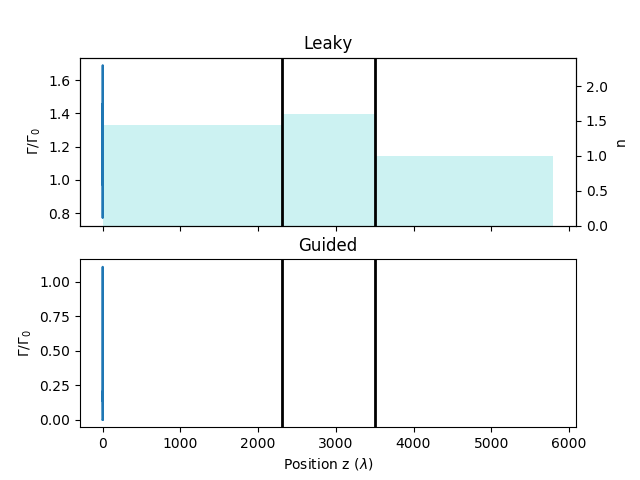
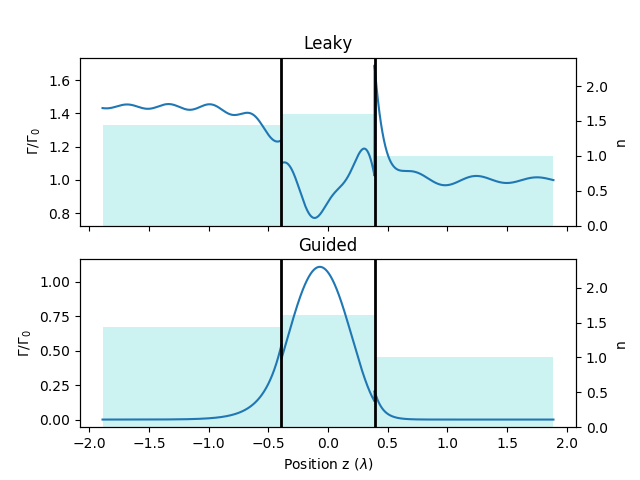
TE AND TM SEPARATE PLOTS

diff --git a/Examples/T_series.py b/Examples/T_series.py
@@ -5,6 +5,7 @@ Thin film calculations for T-series. Purcell factor.
 import matplotlib.pyplot as plt
 import numpy as np
 import pandas as pd
+from matplotlib.patches import Rectangle
 
 from lifetmm.SpontaneousEmissionRate import LifetimeTmm
 from lifetmm.TransferMatrix import TransferMatrix
@@ -18,7 +19,7 @@ def excitation_profile(sample):
     chip = {'Sample ID': sample, 'n': n, 'd': d}
 
     st = TransferMatrix()
-    # st.add_layer(d_clad * lam0, n_dict['Air'])
+    st.add_layer(0, n_dict['Air'])
     st.add_layer(d_clad * lam0, n_dict['SiO2'])
     st.add_layer(chip['d'], chip['n'])
     st.add_layer(d_clad * lam0, n_dict['Air'])
@@ -35,20 +36,22 @@ def excitation_profile(sample):
     st.info()
 
     # Do calculations
-    st.set_polarization('s')
+    st.set_polarization('TE')
     result = st.calc_field_structure()
     z = result['z']
+    # z = st.calc_z_to_lambda(z)
+
     y_s = result['field_squared']
 
-    st.set_polarization('p')
+    st.set_polarization('TM')
     result = st.calc_field_structure()
     y_p = result['field_squared']
 
     # Plot results
     fig, ax1 = plt.subplots()
-    ax1.plot(z, y_s, label='s')
-    ax1.plot(z, y_p, label='p')
-    ax1.set_xlabel('Position in Device (nm)')
+    ax1.plot(z, y_s, label='TE')
+    ax1.plot(z, y_p, label='TM')
+    ax1.set_xlabel('z (nm)')
     ax1.set_ylabel('Normalized |E|$^2$ Intensity ($|E(z)/E_0(0)|^2$)')
     ax1.set_title('Angle of incidence {}°'.format(aoi))
     ax1.legend(title='Polarization')
@@ -57,7 +60,9 @@ def excitation_profile(sample):
     from matplotlib.patches import Rectangle
     ax2 = ax1.twinx()
     for z0, dz, n in zip(st.d_cumulative, st.d_list, st.n_list):
-        rect = Rectangle((z0 - dz, 0), dz, n.real, facecolor='c', alpha=0.2)
+        # z0 = st.calc_z_to_lambda(z0)
+        # dz = st.calc_z_to_lambda(dz, center=False)
+        rect = Rectangle((z0 - dz, 0), dz, n.real, facecolor='c', alpha=0.15)
         ax2.add_patch(rect)  # Note: add to ax1 so that zorder has effect
     ax2.set_ylabel('n')
     ax2.set_ylim(0, 1.5 * max(st.n_list.real))
@@ -67,7 +72,7 @@ def excitation_profile(sample):
     for z in st.get_layer_boundaries()[:-1]:
         ax1.axvline(x=z, color='k', lw=2)
     if SAVE:
-        plt.savefig('../Images/{}_excitation_profile'.format(chip['Sample ID']))
+        plt.savefig('../Images/{}_excitation_profile'.format(chip['Sample ID']), dpi=300)
     plt.show()
 
 
@@ -79,22 +84,21 @@ def plot(sample):
     chip = {'Sample ID': sample, 'n': n, 'd': d}
 
     # Structure 1
-    st1 = LifetimeTmm()
-    st1.set_vacuum_wavelength(lam0)
-    st1.add_layer(d_clad * lam0, n_dict['SiO2'])
-    st1.add_layer(chip['d'], chip['n'])
-    st1.add_layer(d_clad * lam0, n_dict['Air'])
-    st1.info()
+    st = LifetimeTmm()
+    st.set_vacuum_wavelength(lam0)
+    st.add_layer(d_clad * lam0, n_dict['SiO2'])
+    st.add_layer(chip['d'], chip['n'])
+    st.add_layer(d_clad * lam0, n_dict['Air'])
+    st.info()
 
-    result1 = st1.calc_spe_structure(th_pow=11)
+    result1 = st.calc_spe_structure(th_pow=11)
     try:
         spe1 = result1['leaky']['avg'] + result1['guided']['avg']
     except KeyError:
         spe1 = result1['leaky']['avg']
 
     z = result1['z']
-    z = st1.calc_z_to_lambda(z)
-    boundaries = [st1.calc_z_to_lambda(i) for i in st1.get_layer_boundaries()[:-1]]
+    z = st.calc_z_to_lambda(z)
 
     # ------- Plots -------
     fig, (ax1, ax2) = plt.subplots(2, 1, sharex='col', sharey='none')
@@ -111,9 +115,29 @@ def plot(sample):
     ax1.set_title('Leaky')
     ax2.set_title('Guided')
 
-    for z in st1.get_layer_boundaries()[:-1]:
-        ax1.axvline(x=z, color='k', lw=2)
-        ax2.axvline(x=z, color='k', lw=2)
+    for zb in st.get_layer_boundaries()[:-1]:
+        zb = st.calc_z_to_lambda(zb)
+        ax1.axvline(x=zb, color='k', lw=2)
+        ax2.axvline(x=zb, color='k', lw=2)
+
+    # Draw rectangles for the refractive index
+    ax1b = ax1.twinx()
+    ax2b = ax2.twinx()
+    for z0, dz, n in zip(st.d_cumulative, st.d_list, st.n_list):
+        z0 = st.calc_z_to_lambda(z0)
+        dz = st.calc_z_to_lambda(dz, center=False)
+        rect = Rectangle((z0 - dz, 0), dz, n.real, facecolor='c', alpha=0.2)
+        ax1b.add_patch(rect)
+        ax1b.set_ylabel('n')
+        ax1b.set_ylim(0, 1.5 * max(st.n_list.real))
+        rect = Rectangle((z0 - dz, 0), dz, n.real, facecolor='c', alpha=0.2)
+        ax2b.add_patch(rect)
+        ax2b.set_ylabel('n')
+        ax2b.set_ylim(0, 1.5 * max(st.n_list.real))
+    ax1.set_zorder(ax1b.get_zorder() + 1)  # put ax1 in front of ax2
+    ax1.patch.set_visible(False)  # hide ax1'canvas'
+    ax2.set_zorder(ax2b.get_zorder() + 1)  # put ax1 in front of ax2
+    ax2.patch.set_visible(False)  # hide ax1'canvas'
 
     if SAVE:
         plt.savefig('../Images/{}_individual'.format(chip['Sample ID']))
@@ -121,17 +145,124 @@ def plot(sample):
     fig, ax1 = plt.subplots()
     ax1.plot(z, spe1)
 
-    # Plot internal layer boundaries
-    for i in boundaries:
-        ax1.axvline(i, color='k', lw=2)
+    # Labels
+    ax1.set_ylabel('$\Gamma / \Gamma_0$')
+    ax1.set_xlabel('Position z ($\lambda$)')
+    # ax1.legend()
+
+    # Draw rectangles for the refractive index
+    ax2 = ax1.twinx()
+    for z0, dz, n in zip(st.d_cumulative, st.d_list, st.n_list):
+        z0 = st.calc_z_to_lambda(z0)
+        dz = st.calc_z_to_lambda(dz, center=False)
+        rect = Rectangle((z0 - dz, 0), dz, n.real, facecolor='c', alpha=0.15)
+        ax2.add_patch(rect)  # Note: add to ax1 so that zorder has effect
+    ax2.set_ylabel('n')
+    ax2.set_ylim(0, 1.5 * max(st.n_list.real))
+    ax1.set_zorder(ax2.get_zorder() + 1)  # put ax1 in front of ax2
+    ax1.patch.set_visible(False)  # hide ax1'canvas'
+
+    for zb in st.get_layer_boundaries()[:-1]:
+        zb = st.calc_z_to_lambda(zb)
+        ax1.axvline(x=zb, color='k', lw=2)
+
+    if SAVE:
+        plt.savefig('../Images/{}_total'.format(chip['Sample ID']))
+    plt.show()
+
+
+def plot_te_tm(sample):
+    # Load Data
+    df = pd.read_csv('../Data/Screening.csv', index_col='Sample ID')
+    n = df.loc[sample]['n']
+    d = df.loc[sample]['d'] * 1e3  # in nm not um
+    chip = {'Sample ID': sample, 'n': n, 'd': d}
+
+    # Structure 1
+    st = LifetimeTmm()
+    st.set_vacuum_wavelength(lam0)
+    st.add_layer(d_clad * lam0, n_dict['SiO2'])
+    st.add_layer(chip['d'], chip['n'])
+    st.add_layer(d_clad * lam0, n_dict['Air'])
+    st.info()
+
+    result1 = st.calc_spe_structure(th_pow=11)
+    try:
+        spe1 = result1['leaky']['avg'] + result1['guided']['avg']
+    except KeyError:
+        spe1 = result1['leaky']['avg']
+
+    z = result1['z']
+    z = st.calc_z_to_lambda(z)
+
+    # ------- Plots -------
+    fig, (ax1, ax2) = plt.subplots(2, 1, sharex='col', sharey='none')
+    ax1.plot(z, result1['leaky']['avg'])
+    try:
+        ax2.plot(z, result1['guided']['avg'])
+    except KeyError:
+        pass
+
+    # Labels
+    ax1.set_ylabel('$\Gamma / \Gamma_0$')
+    ax2.set_ylabel('$\Gamma / \Gamma_0$')
+    ax2.set_xlabel('Position z ($\lambda$)')
+    ax1.set_title('Leaky')
+    ax2.set_title('Guided')
+
+    for zb in st.get_layer_boundaries()[:-1]:
+        zb = st.calc_z_to_lambda(zb)
+        ax1.axvline(x=zb, color='k', lw=2)
+        ax2.axvline(x=zb, color='k', lw=2)
+
+    # Draw rectangles for the refractive index
+    ax1b = ax1.twinx()
+    ax2b = ax2.twinx()
+    for z0, dz, n in zip(st.d_cumulative, st.d_list, st.n_list):
+        z0 = st.calc_z_to_lambda(z0)
+        dz = st.calc_z_to_lambda(dz, center=False)
+        rect = Rectangle((z0 - dz, 0), dz, n.real, facecolor='c', alpha=0.2)
+        ax1b.add_patch(rect)
+        ax1b.set_ylabel('n')
+        ax1b.set_ylim(0, 1.5 * max(st.n_list.real))
+        rect = Rectangle((z0 - dz, 0), dz, n.real, facecolor='c', alpha=0.2)
+        ax2b.add_patch(rect)
+        ax2b.set_ylabel('n')
+        ax2b.set_ylim(0, 1.5 * max(st.n_list.real))
+    ax1.set_zorder(ax1b.get_zorder() + 1)  # put ax1 in front of ax2
+    ax1.patch.set_visible(False)  # hide ax1'canvas'
+    ax2.set_zorder(ax2b.get_zorder() + 1)  # put ax1 in front of ax2
+    ax2.patch.set_visible(False)  # hide ax1'canvas'
+
+    if SAVE:
+        plt.savefig('../Images/{}_individual'.format(chip['Sample ID']))
+
+    fig, ax1 = plt.subplots()
+    ax1.plot(z, spe1)
 
     # Labels
     ax1.set_ylabel('$\Gamma / \Gamma_0$')
     ax1.set_xlabel('Position z ($\lambda$)')
     # ax1.legend()
 
+    # Draw rectangles for the refractive index
+    ax2 = ax1.twinx()
+    for z0, dz, n in zip(st.d_cumulative, st.d_list, st.n_list):
+        z0 = st.calc_z_to_lambda(z0)
+        dz = st.calc_z_to_lambda(dz, center=False)
+        rect = Rectangle((z0 - dz, 0), dz, n.real, facecolor='c', alpha=0.15)
+        ax2.add_patch(rect)  # Note: add to ax1 so that zorder has effect
+    ax2.set_ylabel('n')
+    ax2.set_ylim(0, 1.5 * max(st.n_list.real))
+    ax1.set_zorder(ax2.get_zorder() + 1)  # put ax1 in front of ax2
+    ax1.patch.set_visible(False)  # hide ax1'canvas'
+
+    for zb in st.get_layer_boundaries()[:-1]:
+        zb = st.calc_z_to_lambda(zb)
+        ax1.axvline(x=zb, color='k', lw=2)
+
     if SAVE:
-        plt.savefig('../Images/{}_total'.format(chip['Sample ID']))
+        plt.savefig('../Images/{}_total_te_tm'.format(chip['Sample ID']))
     plt.show()
 
 
@@ -327,7 +458,7 @@ if __name__ == "__main__":
     lam0 = 1535
 
     # Cladding thickness (in units of lam0)
-    d_clad = 1.5
+    d_clad = 0.5
 
     # Dictionary of material refractive indexes
     n_dict = {'Air': 1,
@@ -339,8 +470,9 @@ if __name__ == "__main__":
               'Diiodomethane': 1.71
               }
 
-    # excitation_profile(sample='T21')
-    # plot(sample='T21')
-    fig6(sample='T21')
+    # excitation_profile(sample='T2')
+    # plot(sample='T2')
+    plot_te_tm(sample='T2')
+    # fig6(sample='T2')
     # loop_csv()
     # loop_list()
